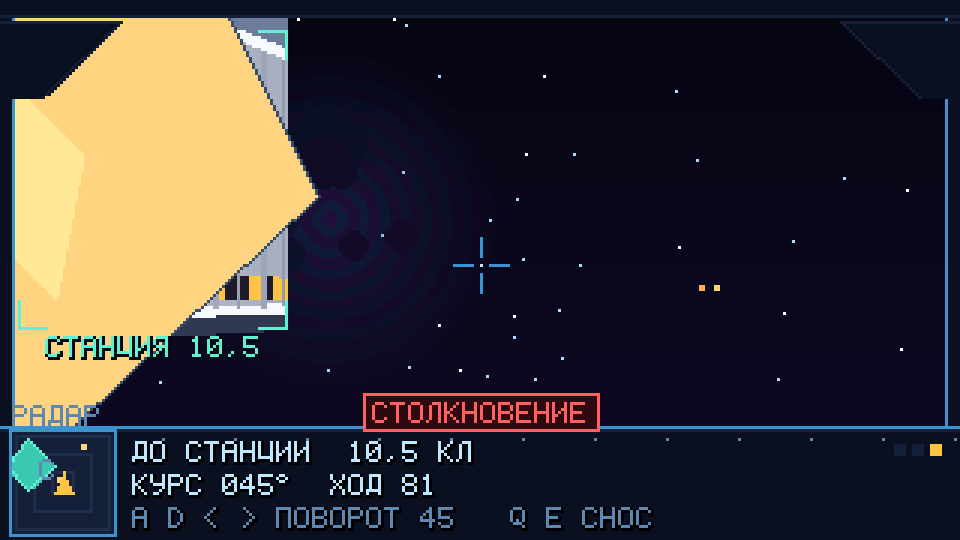
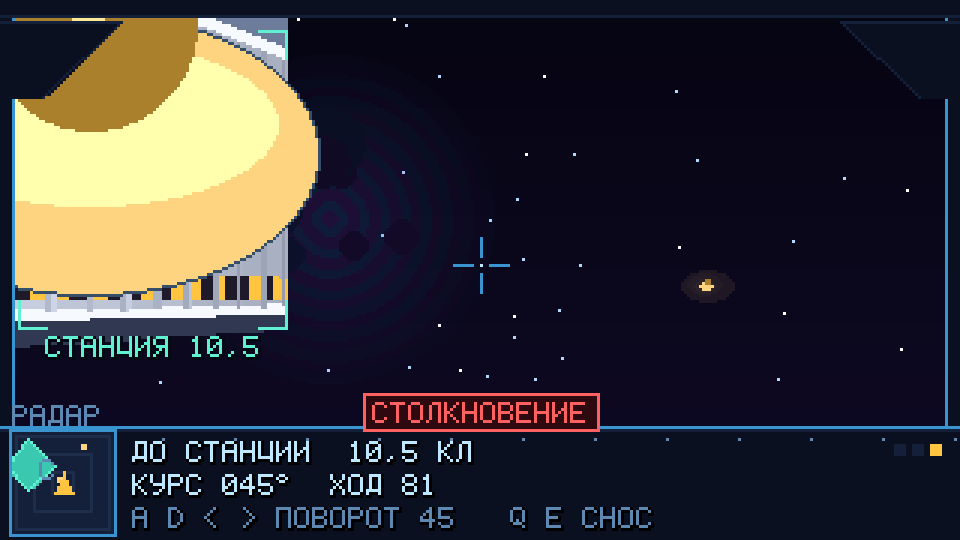
Корабли — круглые тарелки: убраны глюки сложной формы, факел заменён ореолом
Сложный силуэт давал две болезни. Первая: у вытянутого корпуса есть нос и хвост,
поэтому ракурс решал всё — при взгляде вдоль оси проекция вырождалась, корабль
сжимался в пару точек уже с трёх клеток (а заглушка точками ещё и прятала
переворот). Вторая: факел висел на хвосте и при заходе сзади уезжал наверх.

Теперь корабль — круглая тарелка: диск со светлой верхней кромкой и тёмной
обводкой, купол со стеклом, пять огней по нижнему ободу. У круга нет ни носа, ни
хвоста, поэтому ракурс не меняет вид вообще; размер берётся по глубине, и в
3,5 клетках корабль занимает 36x29 px (было «пара точек»), в 10 — 11x9, в 20 — 5x4.

Факела нет совсем. Вместо него у ИДУЩЕГО корабля вокруг всей тарелки идёт
полупрозрачный ореол (три эллипса, alpha 20/26/34, кэш по цвету и радиусу) —
он показывает ход и прячет огрехи позиционирования. У СТОЯЩЕГО корабля огня нет
вовсе. Замер: пикселей со стоящим 157, с тем же кораблём в полёте 963.

Заодно: габарит препятствия у стоящего корабля считается как квадрат от радиуса
(форма круглая) — занята по-прежнему одна клетка (64,38).

selftest: 87 проверок (было 86), 0 провалов. Новые: у летящего есть ореол, у
стоящего нет; видимость корабля и дрейф теперь считаются разницей кадров с
кораблём и без него (не угадывая палитру станции).

diff --git a/src/render.py b/src/render.py
@@ -510,74 +510,88 @@ def draw_hud(canvas, ship, world, t, fps=None):
         pf.draw(canvas, "%d К/С" % fps, CANVAS_W - 34, 9, C_HUD_DIM, shadow=(0, 0, 0))
 
 
+GLOW_CACHE = {}
+
+
+def _glow(col, r):
+    """Полупрозрачный ореол вокруг тарелки (кэш по цвету и радиусу)."""
+    key = (col, r)
+    g = GLOW_CACHE.get(key)
+    if g is None:
+        k = int(r * 2.2) + 3
+        g = pygame.Surface((k * 2, k * 2), pygame.SRCALPHA)
+        for h, a in ((1.00, 20), (0.72, 26), (0.46, 34)):
+            pygame.draw.ellipse(
+                g, (col[0], col[1], col[2], a),
+                pygame.Rect(int(k - k * h), int(k - k * h * 0.66),
+                            int(2 * k * h), int(2 * k * h * 0.66)))
+        GLOW_CACHE[key] = g
+    return g
+
+
 def draw_patrols(canvas, cam, world, patrols, t):
-    """Патрульные корабли: рисуются после станции, закрытые ею — не рисуются."""
+    """Корабли: круглые «летающие тарелки».
+
+    Круглая форма снимает разом пачку глюков сложного силуэта. У тарелки нет ни
+    носа, ни хвоста, поэтому ракурс и его вырождение (когда корабль смотрит точно
+    в камеру) вообще не меняют вид: с любого направления это один и тот же круг.
+    Спрайт рисуется по проекции центра корабля, размер берётся по глубине —
+    поэтому он не сжимается в точку уже с трёх клеток, как вытянутый корпус.
+
+    Факела двигателя нет вовсе. У ЛЕТЯЩЕГО корабля вокруг всей тарелки идёт
+    полупрозрачный ореол — он и показывает, что корабль идёт, и заодно прячет
+    любые огрехи позиционирования; у СТОЯЩЕГО огня нет совсем.
+    """
     for p in patrols:
         if patrol_hidden(cam, world, p.pos):
             continue
-        px, py = p.pos
-        hx, hy = p.head
-        hl = PATROL_LEN
-        nose = cam.project(px + hx * hl, py + hy * hl, PATROL_H, clamp=False)
-        tail = cam.project(px - hx * hl, py - hy * hl, PATROL_H, clamp=False)
-        if nose is None or tail is None:
+        c = cam.project(p.pos[0], p.pos[1], PATROL_H, clamp=False)
+        if c is None:
             continue
-        nx, ny = nose[0], nose[1]
-        txx, tyy = tail[0], tail[1]
-        if not (-40 <= nx <= CANVAS_W + 40 and -40 <= ny <= CANVAS_H + 40):
+        cx, cy, zc = c[0], c[1], c[2]
+        if not (-40 <= cx <= CANVAS_W + 40 and -40 <= cy <= CANVAS_H + 40):
             continue
         col = p.color or C_PATROL_A
-        vx, vy = nx - txx, ny - tyy
-        ln = math.hypot(vx, vy)
-        if ln < 6.5:
-            # Вдали силуэт всё равно не разбирается, а тёмная обводка съедает
-            # спрайт целиком — рисуем яркую пару «корпус + факел», чтобы
-            # патруль читался точкой, а не тёмной кляксой.
+        r = FOCAL * PATROL_R / max(zc, 0.05)        # радиус тарелки на экране
+        if r < 1.7:
             pygame.draw.rect(canvas, col,
-                             (int(round(nx)) - 1, int(round(ny)) - 1, 2, 2))
-            pygame.draw.rect(canvas, C_FLAME,
-                             (int(round(txx)) - 1, int(round(tyy)) - 1, 2, 2))
+                             (int(round(cx)) - 1, int(round(cy)) - 1, 2, 2))
             continue
-        ux, uy = vx / ln, vy / ln
-        ox, oy = -uy, ux                       # перпендикуляр к курсу
-        w = ln * 0.40
-        hull = [(nx, ny),
-                (nx - ux * ln * 0.30 + ox * w, ny - uy * ln * 0.30 + oy * w),
-                (nx - ux * ln * 0.78 + ox * w * 0.50, ny - uy * ln * 0.78 + oy * w * 0.50),
-                (nx - ux * ln, ny - uy * ln),
-                (nx - ux * ln * 0.78 - ox * w * 0.50, ny - uy * ln * 0.78 - oy * w * 0.50),
-                (nx - ux * ln * 0.30 - ox * w, ny - uy * ln * 0.30 - oy * w)]
-        pygame.draw.polygon(canvas, col, hull)
-        if ln >= 8.0:
-            pygame.draw.polygon(canvas, C_PATROL_D, hull, 1)
-        # кабина и сопло
-        if ln >= 8.0:
-            cab = [(nx - ux * ln * 0.30, ny - uy * ln * 0.30),
-                   (nx - ux * ln * 0.30 + ox * w * 0.45, ny - uy * ln * 0.30 + oy * w * 0.45),
-                   (nx - ux * ln * 0.55, ny - uy * ln * 0.55)]
-            pygame.draw.polygon(canvas, C_WIN, cab)
-            pygame.draw.polygon(canvas, C_WIN,
-                                [(cab[0][0], cab[0][1]), cab[1],
-                                 (nx - ux * ln * 0.55 - ox * w * 0.45,
-                                  ny - uy * ln * 0.55 - oy * w * 0.45)])
-        # факел двигателя: мерцает. У стоящего корабля он почти погашен — иначе
-        # «стоящий» корабль выглядит так, будто вот-вот улетит.
-        fs = getattr(p, "flame", 1.0)
-        flick = 0.45 + 0.55 * (0.5 + 0.5 * math.sin(t * 23.0 + p.s * 0.7))
-        fl = ln * (0.28 + 0.42 * flick) * fs
-        fw = w * (0.20 + 0.25 * flick) * fs
-        pygame.draw.polygon(canvas, C_FLAME, [
-            (txx - ox * fw, tyy - oy * fw),
-            (txx - ux * fl, tyy - uy * fl),
-            (txx + ox * fw, tyy + oy * fw)])
-        # габаритные огни: красный/зелёный по крыльям
-        if ln >= 7.0:
-            blink = int(t * 3.0 + p.margin) % 2 == 0
-            for sgn, c in ((1.0, C_LIGHT_R), (-1.0, C_LIGHT_G)):
-                if blink or sgn > 0:
-                    lx = nx - ux * ln * 0.30 + ox * w * sgn
-                    ly = ny - uy * ln * 0.30 + oy * w * sgn
-                    pygame.draw.rect(canvas, c, (int(lx) - 1, int(ly) - 1, 2, 2))
+        if abs(getattr(p, "speed", 0.0)) > 0.0:     # у стоящего ореола нет
+            g = _glow(col, max(3, int(r)))
+            canvas.blit(g, (int(cx) - g.get_width() // 2,
+                            int(cy) - g.get_height() // 2))
+        rx, ry = r, r * 0.62
+        # корпус-диск: заливка, светлая верхняя кромка, тёмная обводка
+        pygame.draw.ellipse(canvas, col, (int(cx - rx), int(cy - ry),
+                                          int(2 * rx), int(2 * ry)))
+        if r >= 3.0:
+            pygame.draw.ellipse(canvas, _shade(col, 46),
+                                (int(cx - rx * 0.82), int(cy - ry * 0.78),
+                                 int(2 * rx * 0.82), int(2 * ry * 0.58)))
+            pygame.draw.ellipse(canvas, C_PATROL_D,
+                                (int(cx - rx), int(cy - ry),
+                                 int(2 * rx), int(2 * ry)), 1)
+        # купол
+        dr = r * 0.46
+        pygame.draw.ellipse(canvas, _shade(col, -84),
+                            (int(cx - dr), int(cy - ry - dr * 0.9),
+                             int(2 * dr), int(2 * dr)))
+        if r >= 5.0:
+            pygame.draw.ellipse(canvas, C_WIN,
+                                (int(cx - dr * 0.5), int(cy - ry - dr * 0.55),
+                                 int(dr), int(dr * 0.62)))
+        # огни по нижнему ободу: мигают, но у стоящего первой горит всегда
+        if r >= 4.0:
+            blink = int(t * 3.0 + getattr(p, "margin", 0.0)) % 2 == 0
+            for k in range(5):
+                a = math.pi * (0.12 + 0.76 * k / 4.0)
+                lx = cx - math.cos(a) * rx * 0.86
+                ly = cy + math.sin(a) * ry * 0.80
+                if blink or k == 0:
+                    c2 = C_LIGHT_R if k % 2 == 0 else C_LIGHT_G
+                    pygame.draw.rect(canvas, c2,
+                                     (int(lx) - 1, int(ly) - 1, 2, 2))
 
 
 def draw_frame(canvas, world, ship, stars, t, fps=None, patrols=None):

diff --git a/tools/selftest.py b/tools/selftest.py
@@ -20,8 +20,9 @@ pygame.display.set_mode((10, 10))
 
 import pixel_font as pf
 import render
-from config import (CANVAS_H, CANVAS_W, FPS, SHIP_START_GX, SHIP_START_GY,
-                    SHIP_START_YAW, STEP_REPEAT, TURN_REPEAT, TURN_STEP)
+from config import (CANVAS_H, CANVAS_W, C_PATROL_D, C_WIN, FPS, SHIP_START_GX,
+                    SHIP_START_GY, SHIP_START_YAW, STEP_REPEAT, TURN_REPEAT,
+                    TURN_STEP)
 from ship import Ship
 from world import World
 
@@ -334,14 +335,52 @@ def count_col(surf, col):
             if surf.get_at((x, y))[:3] == col[:3]:
                 n += 1
     return n
-near = count_col(canvas, (150, 245, 255))
-check("патруль в кадре виден (есть его цвет)", near > 12, "пикселей %d" % near)
+
+
+def ship_pixels(with_ship, without_ship):
+    """Пиксели корабля: всё, чем кадр с кораблём отличается от кадра без него.
+
+    Так надёжнее, чем угадывать палитру: у станции есть свои цвета, и любой
+    список «цветов корабля» нет-нет да и совпадёт с каким-нибудь её пикселем.
+    """
+    pts = []
+    for y in range(6, 140):
+        for x in range(4, 316):
+            if with_ship.get_at((x, y))[:3] != without_ship.get_at((x, y))[:3]:
+                pts.append((x, y))
+    return pts
+
+
+cv_empty = pygame.Surface((CANVAS_W, CANVAS_H))
+render.draw_frame(cv_empty, w, sh, stars, 1.0)
+free_sky = cv_empty.copy()
+fake.pos = (58.0, 30.0)
+render.draw_frame(canvas, w, sh, stars, 1.0, patrols=[fake])
+near = len(ship_pixels(canvas, free_sky))
+check("патруль в кадре виден", near > 30, "пикселей %d" % near)
 fake.pos = (58.0, 75.0)                  # за станцией
 fake.s = 1.0
 render.draw_frame(canvas, w, sh, stars, 1.0, patrols=[fake])
 check("патруль за станцией не рисуется",
-      count_col(canvas, (150, 245, 255)) < 12,
-      "пикселей %d" % count_col(canvas, (150, 245, 255)))
+      len(ship_pixels(canvas, free_sky)) < 8,
+      "пикселей %d" % len(ship_pixels(canvas, free_sky)))
+
+# у летящего корабля вокруг тарелки идёт полупрозрачный ореол, у стоящего — нет
+sh_h = Ship(64, 32, 0)
+sh_h.snap()
+render.draw_frame(cv_empty, w, sh_h, stars, 2.0)
+free_sky = cv_empty.copy()
+fake.pos = (64.5, 38.5)
+fake.head = (1.0, 0.0)
+render.draw_frame(canvas, w, sh_h, stars, 2.0, patrols=[fake])
+fly_px = len(ship_pixels(canvas, free_sky))
+still = P.Standing((64.5, 38.5), (1.0, 0.0), color=(150, 245, 255))
+render.draw_frame(canvas, w, sh_h, stars, 2.0, patrols=[still])
+stand_px = len(ship_pixels(canvas, free_sky))
+check("у летящего корабля есть ореол, у стоящего огня нет",
+      fly_px > stand_px * 1.2,
+      "пикселей со стоящим %d, с летящим %d (ореол даёт разницу)"
+      % (stand_px, fly_px))
 
 # --- регрессия: спиной к станции кадр не должен заливаться серым ---------
 # Причина бага: точке ЗА камерой подставлялся zc = MIN_Z, а xc оставался прежним —
@@ -455,30 +494,29 @@ for _ in range(20):
 check("заход к станции не сломан стоящим кораблём",
       (sh_c2.gx, sh_c2.gy) == (57, 47), str((sh_c2.gx, sh_c2.gy)))
 
-# он рисуется тем же кодом, что патрули: в кадре должен быть его силуэт
-from config import C_PATROL_D
-canvas_s = pygame.Surface((CANVAS_W, CANVAS_H))
+# он рисуется тем же кодом, что патрули: в кадре должна быть его тарелка
+cv_s = pygame.Surface((CANVAS_W, CANVAS_H))
+cv_f = pygame.Surface((CANVAS_W, CANVAS_H))
 sh_s = Ship(64, 32, 0)
 sh_s.snap()
 stars_s = render.make_starfield(20261007)
-render.draw_frame(canvas_s, ws, sh_s, stars_s, 2.0, patrols=[st])
-hull_s = [(x, y) for y in range(6, 140) for x in range(4, 316)
-          if tuple(canvas_s.get_at((x, y))[:3]) in ((255, 212, 128), C_PATROL_D)]
-check("стоящий корабль виден в кадре с курса захода", len(hull_s) > 100,
-      "пикселей корпуса %d" % len(hull_s))
+render.draw_frame(cv_f, ws, sh_s, stars_s, 2.0)
+render.draw_frame(cv_s, ws, sh_s, stars_s, 2.0, patrols=[st])
+hull_s = len(ship_pixels(cv_s, cv_f))
+check("стоящий корабль виден в кадре с курса захода", hull_s > 80,
+      "пикселей корабля %d" % hull_s)
 
-# дрейф мимо него: силуэт должен ехать по экрану ровно, без переворотов
+# дрейф мимо него: тарелка должна ехать по экрану ровно, без скачков центра
 prev_c = None
 worst_step = 0.0
 sizes = []
 for gx_ in range(58, 71):
     sh_d2 = Ship(gx_, 32, 0)
     sh_d2.snap()
-    cv_s = pygame.Surface((CANVAS_W, CANVAS_H))
+    render.draw_frame(cv_f, ws, sh_d2, stars_s, 2.0)
     render.draw_frame(cv_s, ws, sh_d2, stars_s, 2.0, patrols=[st])
-    pts = [(x, y) for y in range(6, 140) for x in range(4, 316)
-           if tuple(cv_s.get_at((x, y))[:3]) in ((255, 212, 128), C_PATROL_D)]
-    if len(pts) < 60:
+    pts = ship_pixels(cv_s, cv_f)
+    if len(pts) < 40:
         worst_step = 99.0
         break
     cx_ = sum(p[0] for p in pts) / float(len(pts))
@@ -488,7 +526,7 @@ for gx_ in range(58, 71):
     if prev_c is not None:
         worst_step = max(worst_step, abs(cx_ - prev_c[0]) - 26.0)
     prev_c = (cx_, cy_)
-check("силуэт стоящего корабля едет по экрану без переворотов",
+check("тарелка стоящего корабля едет по экрану без скачков",
       worst_step < 6.0 and len(sizes) == 13,
       "лишний скачок центра %.1f px за клетку (сам снос — 23-24 px), "
       "габарит от %dx%d до %dx%d"

diff --git a/src/patrol.py b/src/patrol.py
@@ -14,8 +14,8 @@
 import math
 from bisect import bisect_right
 
-from config import (PATROL_LEN, PATROL_SPEED_1, PATROL_SPEED_2, STAND_CELL,
-                    STAND_FLAME, STAND_HALF_W, STAND_HEAD, STAND_PAD)
+from config import (PATROL_R, PATROL_SPEED_1, PATROL_SPEED_2, STAND_CELL,
+                    STAND_HEAD, STAND_PAD)
 
 
 def offset_path(world, margin, arc_steps=32):
@@ -107,48 +107,39 @@ def make_patrols(world, colors):
 
 
 class Standing:
-    """Корабль, который стоит на месте: тот же силуэт, что у патруля.
+    """Корабль, который стоит на месте: та же круглая тарелка, что у патруля.
 
-    Нужен потому, что у стоящего корабля ракурс меняется ТОЛЬКО от движения
-    игрока: на нём сразу видно, переворачивается спрайт или нет, и не надо
-    гадать, что дал собственный полёт корабля. В отличие от патрулей, он ещё и
-    перекрывает свою клетку: сквозь стоящий корабль пролететь нельзя.
+    У стоящего корабля ракурс меняется ТОЛЬКО от движения игрока, поэтому на нём
+    удобно проверять спрайт. В отличие от патрулей он ещё и перекрывает свою
+    клетку: сквозь стоящий корабль пролететь нельзя. Огня у него нет вовсе —
+    ни факела, ни ореола: ореол в игре означает «корабль летит».
     """
 
     def __init__(self, pos, head, color=None, name="стоящий корабль",
-                 half_w=STAND_HALF_W, pad=STAND_PAD):
+                 pad=STAND_PAD):
         self.pos = (float(pos[0]), float(pos[1]))
         self.head = (float(head[0]), float(head[1]))
         self.color = color
         self.name = name
-        self.s = 0.0                 # фаза мерцания факела (условная)
-        self.speed = 0.0
-        self.margin = 0.0            # фаза мигания габаритных огней
-        self.flame = STAND_FLAME
-        self.half_w = half_w         # половина корпуса поперёк курса
+        self.s = 0.0                 # фаза мигания огней по ободу
+        self.speed = 0.0             # ноль — значит, ореола не будет
+        self.margin = 0.0
         self.pad = pad               # запас по толщине для препятствия
 
     def update(self, dt):
         return                       # стоит на месте
 
     def blocked_cells(self):
-        """Клетки, которые корабль занимает.
+        """Клетки, которые занимает тарелка.
 
-        Габарит — корпус (полудлина PATROL_LEN, полуширина half_w) плюс запас по
-        толщине. Занятой считаем клетку, у которой ЦЕНТР попал внутрь габарита:
-        это устойчивее «пересечения прямоугольников» — корабль по центру своей
-        клетки занимает ровно одну клетку, а не четыре из-за сдвига на десятые.
+        Корабль круглый, поэтому габарит — квадрат со стороной 2*(радиус + запас),
+        без всякой возни с курсом. Занятой считаем клетку, у которой ЦЕНТР попал
+        внутрь габарита: так корабль по центру клетки занимает ровно одну клетку,
+        а не четыре от сдвига на десятые доли.
         """
-        hx, hy = self.head
-        n = math.hypot(hx, hy) or 1.0
-        hx, hy = hx / n, hy / n
-        lx, ly = hx * (PATROL_LEN + self.pad), hy * (PATROL_LEN + self.pad)
-        wx, wy = -hy * (self.half_w + self.pad), hx * (self.half_w + self.pad)
-        xs = (self.pos[0] + lx + wx, self.pos[0] + lx - wx,
-              self.pos[0] - lx + wx, self.pos[0] - lx - wx)
-        ys = (self.pos[1] + ly + wy, self.pos[1] + ly - wy,
-              self.pos[1] - ly + wy, self.pos[1] - ly - wy)
-        x0, x1, y0, y1 = min(xs), max(xs), min(ys), max(ys)
+        r = PATROL_R + self.pad
+        x0, x1 = self.pos[0] - r, self.pos[0] + r
+        y0, y1 = self.pos[1] - r, self.pos[1] + r
         cells = []
         for gx in range(int(math.floor(x0)), int(math.ceil(x1))):
             for gy in range(int(math.floor(y0)), int(math.ceil(y1))):
@@ -197,4 +188,4 @@ def hidden(cam, world, pos):
 
 
 def half_len():
-    return PATROL_LEN
+    return PATROL_R

diff --git a/src/config.py b/src/config.py
@@ -38,19 +38,17 @@ PATROL_DIST_2 = 20.0
 PATROL_SPEED_1 = 6.0   # клеток в секунду (по маршруту ~194 клетки)
 PATROL_SPEED_2 = 4.2
 PATROL_H = 1.15        # визуальная высота полёта над плоскостью
-PATROL_LEN = 0.42      # половина длины корпуса в клетках
+PATROL_R = 0.42        # радиус тарелки в клетках (форма круглая — ни носа, ни хвоста)
 
 C_PATROL_A  = (150, 245, 255)
 C_PATROL_B  = (255, 212, 128)
 C_PATROL_D  = (54, 78, 104)
 C_FLAME     = (255, 176, 72)
 
-# --- стоящий корабль: тот же силуэт, что у патруля, но не летает ----------
+# --- стоящий корабль: та же тарелка, но не летает -------------------------
 STAND_CELL = (64, 38)       # клетка, в которой он стоит (по центру клетки)
-STAND_HALF_W = 0.17         # половина корпуса поперёк курса, клеток
 STAND_PAD = 0.20            # насколько толще корпуса считается препятствие
-STAND_HEAD = (1.0, 0.0)     # стоит бортом к коридору захода: так силуэт виден
-STAND_FLAME = 0.35          # факел почти погашен: корабль стоит
+STAND_HEAD = (1.0, 0.0)     # курс (у круглого корабля он только для порядка)
 C_LIGHT_R   = (255, 88, 88)
 C_LIGHT_G   = (120, 255, 140)
 
